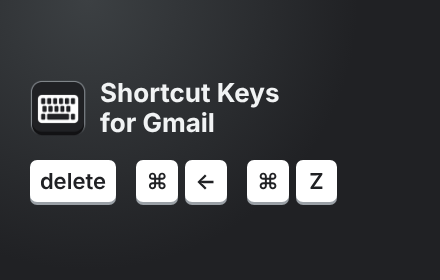
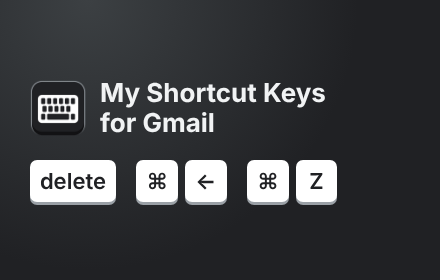
Rename extension to My Shortcut Keys for Gmail
Claude-Session: https://claude.ai/code/session_01CdKS2NXdBxitVhg7pSo8d6

Changed region(s): [[0.2068, 0.2857, 0.7386, 0.4]]

diff --git a/src/options/options.html b/src/options/options.html
@@ -3,7 +3,7 @@
 <head>
   <meta charset="utf-8">
   <meta name="viewport" content="width=device-width, initial-scale=1">
-  <title>Shortcut Keys for Gmail</title>
+  <title>My Shortcut Keys for Gmail</title>
   <link rel="stylesheet" href="options.css">
 </head>
 <body>
@@ -11,7 +11,7 @@
     <header>
       <img src="../icons/icon48.png" alt="" width="40" height="40">
       <div>
-        <h1>Shortcut Keys for Gmail</h1>
+        <h1>My Shortcut Keys for Gmail</h1>
         <p class="sub">Map keys to Gmail actions. Changes save automatically and apply to open Gmail tabs right away.</p>
       </div>
     </header>

diff --git a/src/content/content.js b/src/content/content.js
@@ -38,7 +38,7 @@
     try {
       actions.perform(action);
     } catch (err) {
-      console.warn('[Shortcut Keys for Gmail] action failed:', action, err);
+      console.warn('[My Shortcut Keys for Gmail] action failed:', action, err);
     }
   }
 

diff --git a/store/PUBLISHING.md b/store/PUBLISHING.md
@@ -5,15 +5,15 @@ Build the packages first:
 
 ```sh
 npm run build
-# dist/shortcut-keys-for-gmail-chrome-<version>.zip
-# dist/shortcut-keys-for-gmail-firefox-<version>.zip
+# dist/my-shortcut-keys-for-gmail-chrome-<version>.zip
+# dist/my-shortcut-keys-for-gmail-firefox-<version>.zip
 ```
 
 ## Chrome Web Store
 
 1. Register as a developer at https://chrome.google.com/webstore/devconsole
    (one-time US$5 fee, plus account verification).
-2. **Add new item** → upload `dist/shortcut-keys-for-gmail-chrome-<version>.zip`.
+2. **Add new item** → upload `dist/my-shortcut-keys-for-gmail-chrome-<version>.zip`.
 3. **Store listing** tab
    - Description and summary from listing.md. Category: Productivity → Communication.
    - Language: English.
@@ -32,7 +32,7 @@ npm run build
 
 1. Sign in at https://addons.mozilla.org/developers/ with a Mozilla account (free).
 2. **Submit a New Add-on** → *On this site* (listed) → upload
-   `dist/shortcut-keys-for-gmail-firefox-<version>.zip`.
+   `dist/my-shortcut-keys-for-gmail-firefox-<version>.zip`.
 3. Validation should pass. When asked about source code, answer **No** (no build tools,
    no minification).
 4. Fill in name, summary, description from listing.md. Category: Social & Communication.

diff --git a/PRIVACY.md b/PRIVACY.md
@@ -1,8 +1,8 @@
-# Privacy policy: Shortcut Keys for Gmail
+# Privacy policy: My Shortcut Keys for Gmail
 
 _Last updated: 22 November 2026_
 
-Shortcut Keys for Gmail does not collect, store, send or sell any personal data.
+My Shortcut Keys for Gmail does not collect, store, send or sell any personal data.
 
 **What it does.** The extension runs only on `https://mail.google.com/`. It listens
 for the keys you have set up and, when one is pressed, clicks the matching Gmail

diff --git a/store/listing.md b/store/listing.md
@@ -3,7 +3,7 @@
 Copy these into the Chrome Web Store and Firefox Add-ons forms.
 
 ## Name
-Shortcut Keys for Gmail
+My Shortcut Keys for Gmail
 
 ## Summary (Chrome "Summary", Firefox "Summary"; 132 characters max)
 Delete, archive and undo in Gmail with familiar keys, and map any key to any Gmail action.

diff --git a/README.md b/README.md
@@ -1,4 +1,4 @@
-# Shortcut Keys for Gmail
+# My Shortcut Keys for Gmail
 
 A Chrome and Firefox extension (Manifest V3, one shared codebase) that adds
 familiar, customizable keyboard shortcuts to Gmail.
